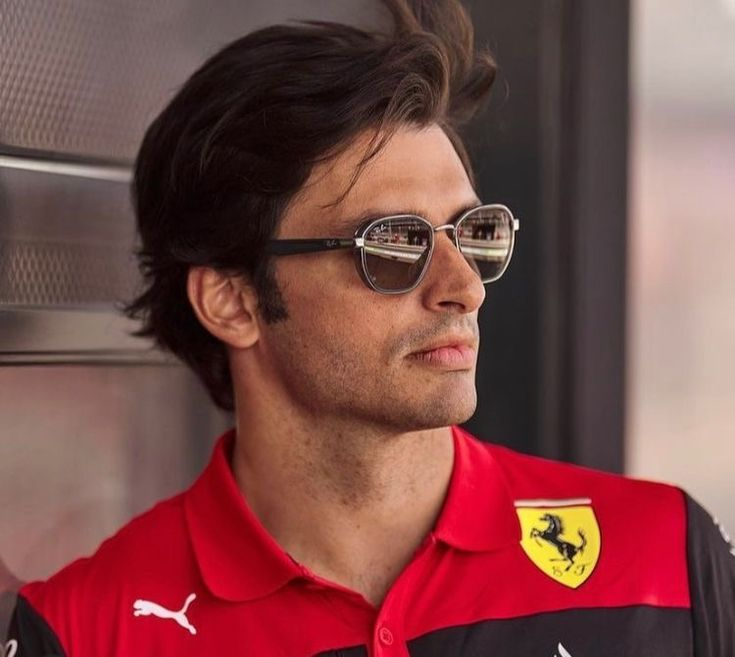
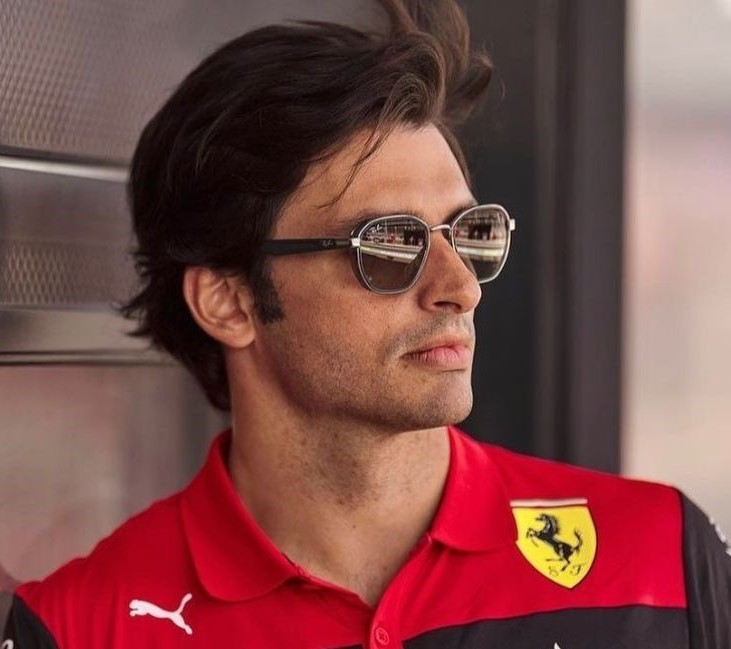
Se acomodo la galeria de imagenes

diff --git a/public/css/styles.css b/public/css/styles.css
@@ -128,15 +128,13 @@ button {
 }
 
 .galleria {
-    margin: 10px 80px;
+    width: 100%;
    
 }
 
 .galleria .galleria-container{
     display: grid;
     grid-template-columns: 1fr 1fr;
-    grid-template-rows: 1fr 1fr;
-    gap: 20px;
 }
 
 .galleria .galleria-container .galleria-item-1{
@@ -155,17 +153,17 @@ button {
 
 .galleria .galleria-container .galleria-item-3{
     grid-column: 1 / 3;
-    grid-row: 2;   
+    grid-row: 1;   
     display: flex;
     justify-content: center;
 }
 
 .galleria .galleria-container .galleria-item-1 img {
-    height: 481px;
+    width: 100%;
 }
 .galleria .galleria-container .galleria-item-2 img {
-    height: 481px;
+    width: 100%;
 }
 .galleria .galleria-container .galleria-item-3 img {
-    height: 481px;
+    width: 100%;
 }

diff --git a/views/index.html b/views/index.html
@@ -99,11 +99,12 @@
             <div class="galleria-item-2">
                 <img src="../public/images/Carlos Sainz.jpg" alt="Camiseta">
             </div>
+        </div>
+        <div class="galleria-container">
             <div class="galleria-item-3">
                 <img src="../public/images/Norris Mclaren.jpg" alt="Gorra">
             </div>
         </div>
-
     </div>
 </body>
 </html>
